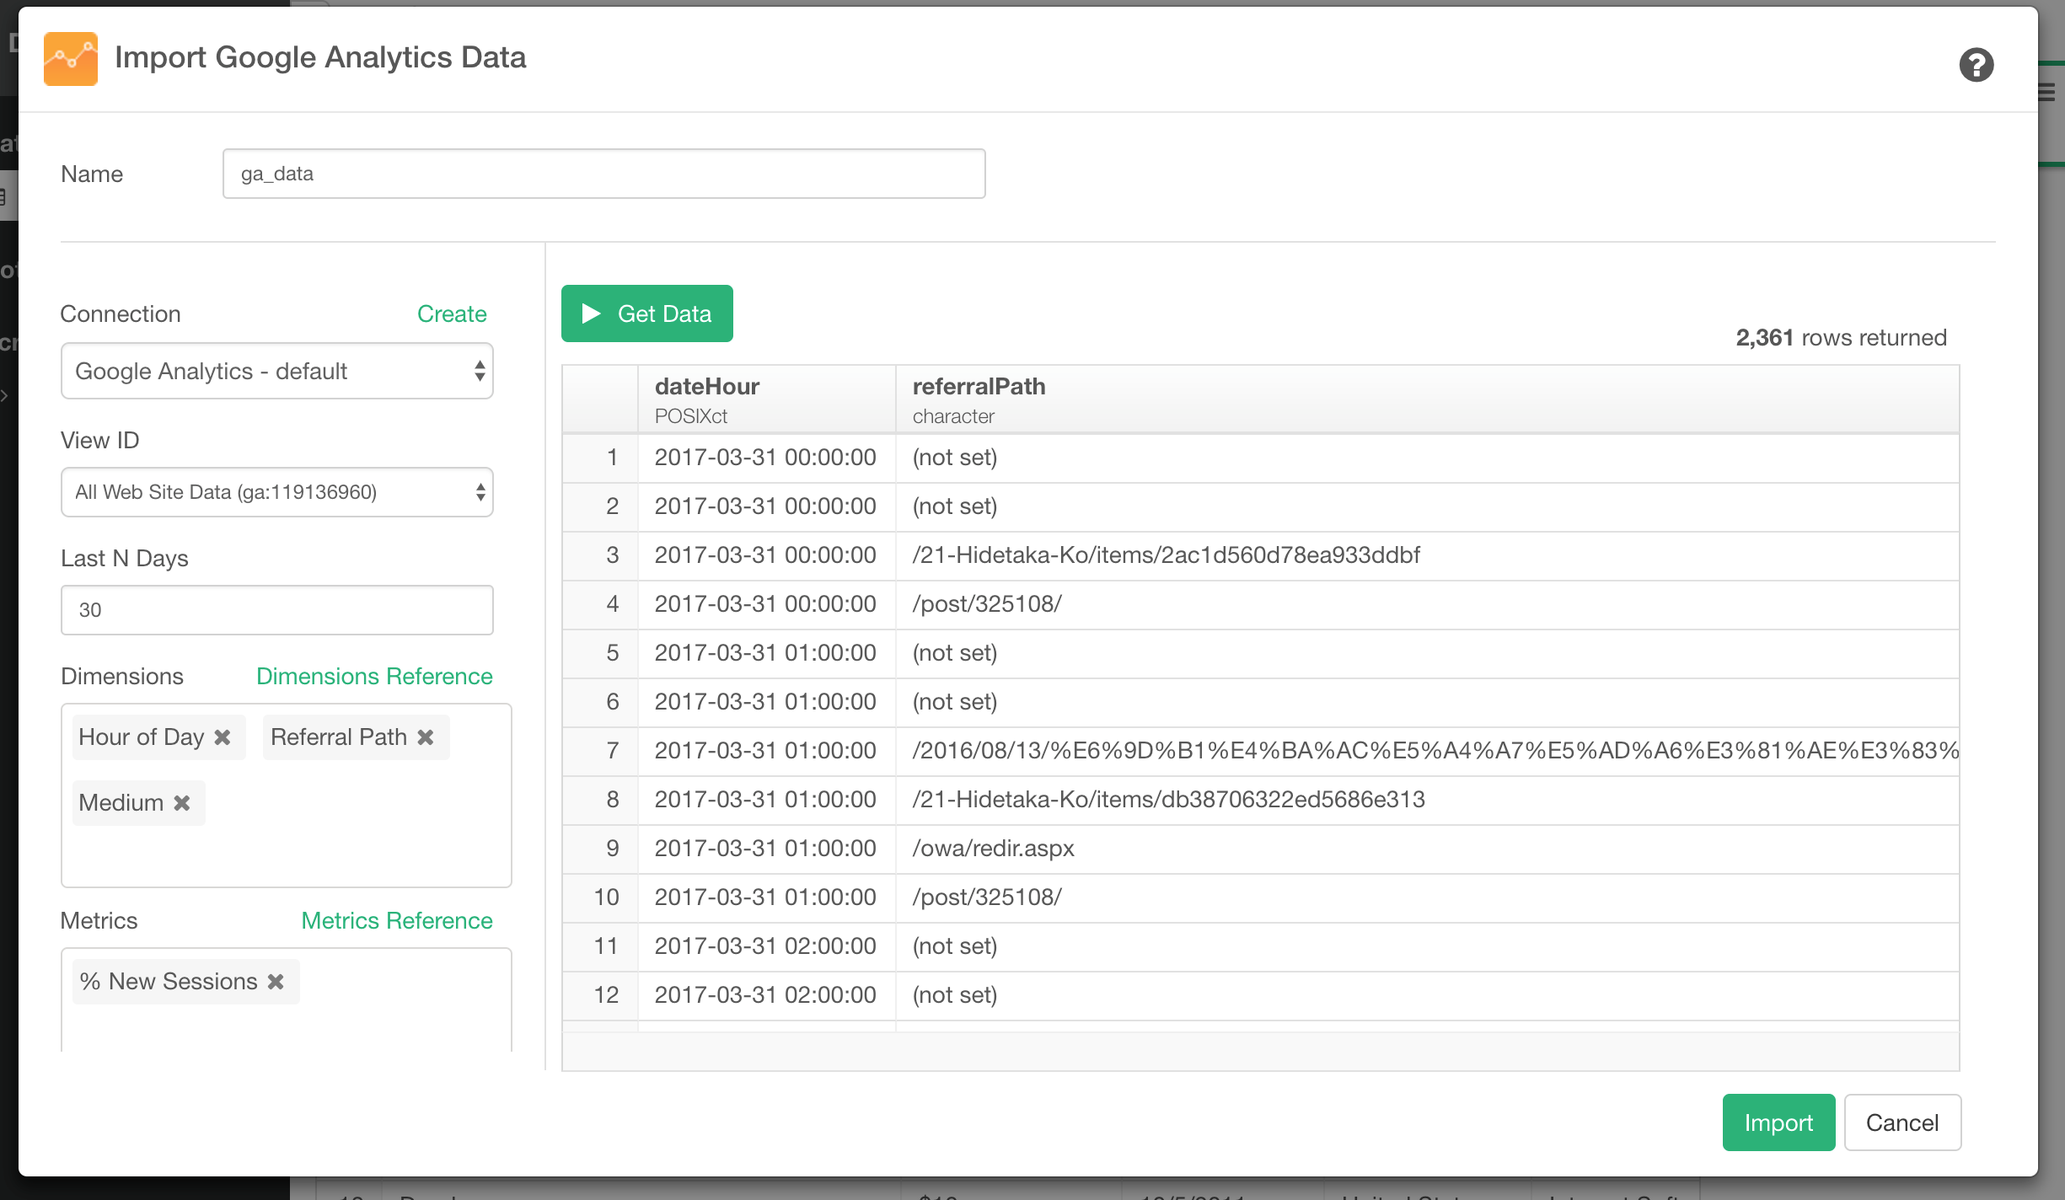
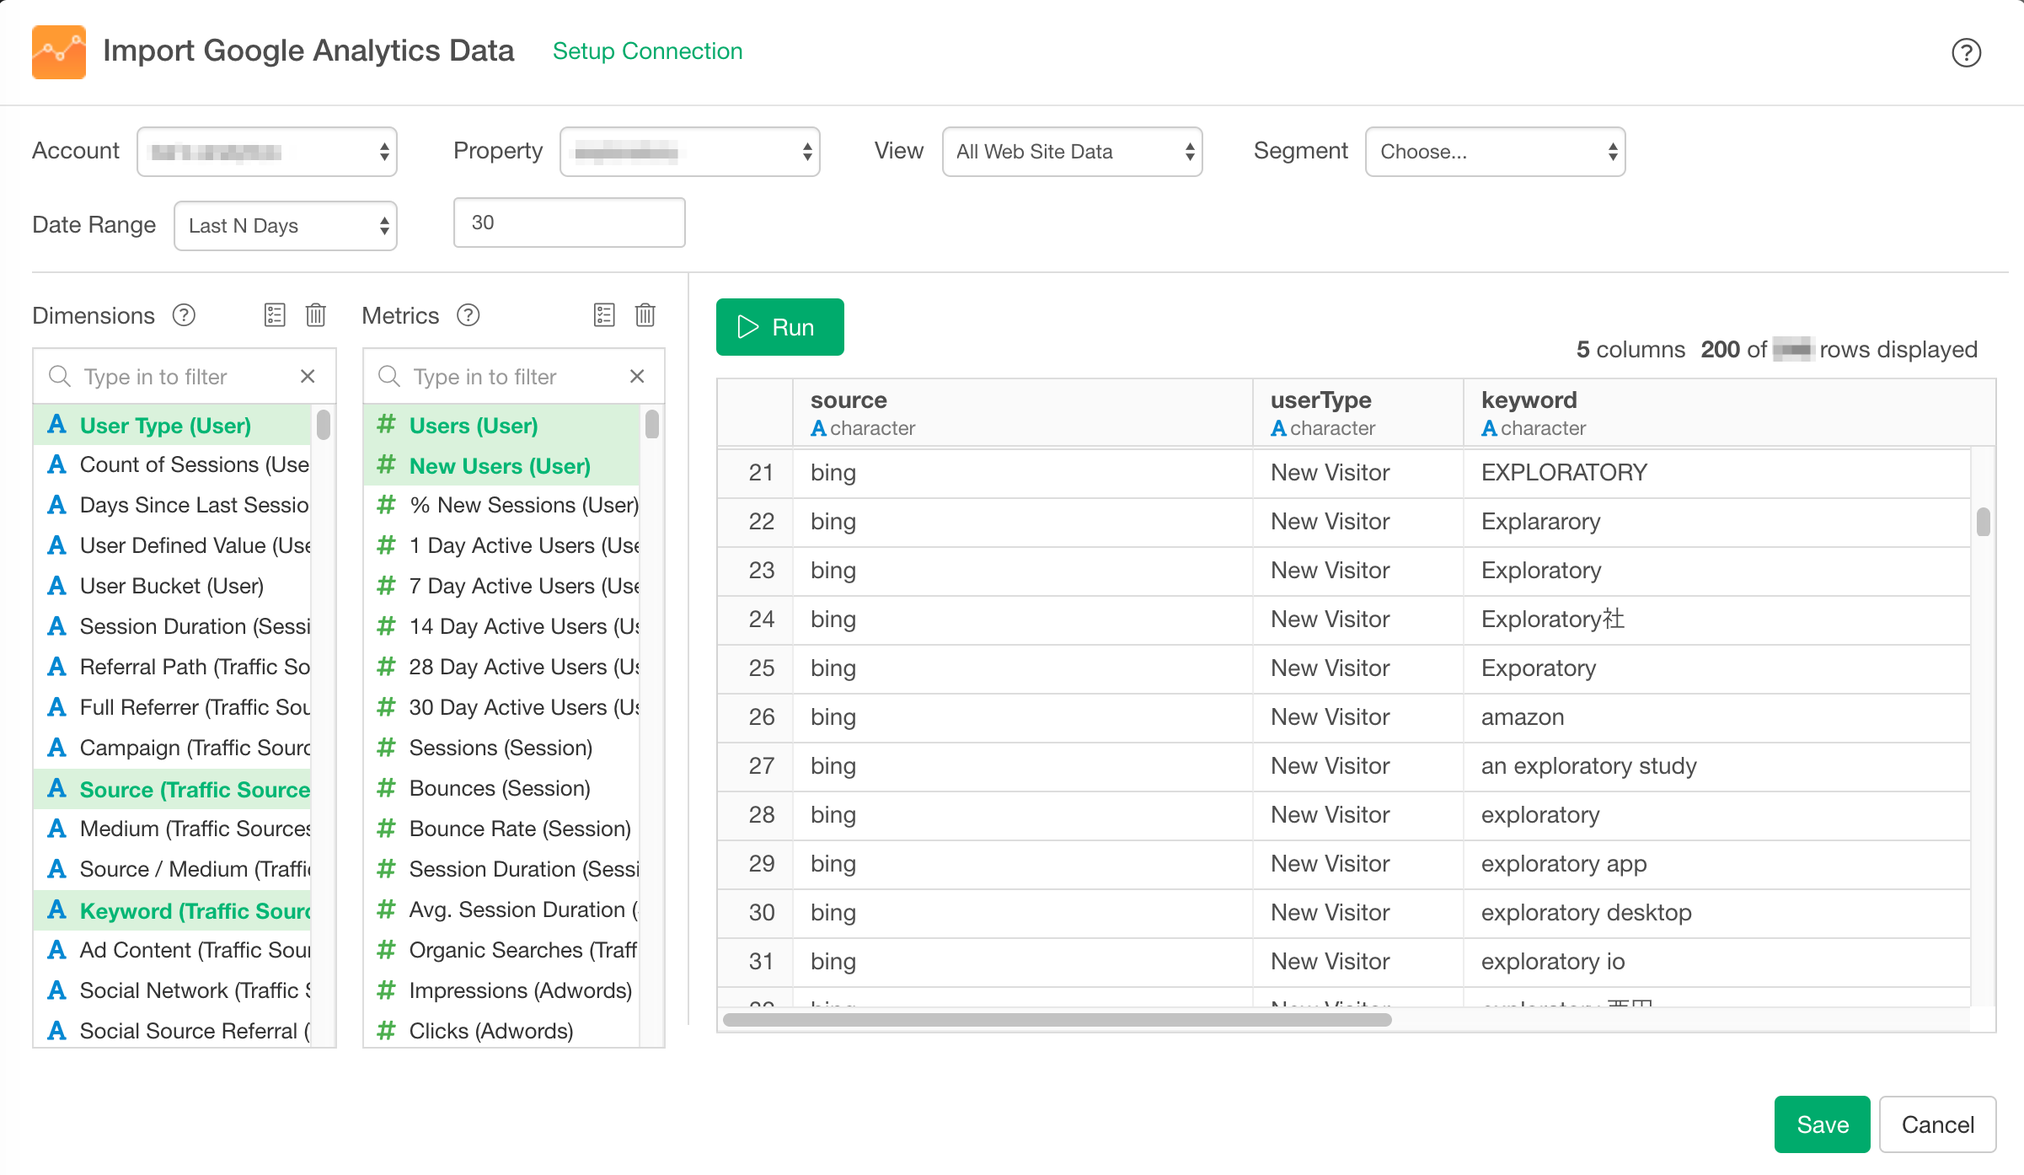
Updated Google Analytics with new screenshot.

diff --git a/import/google-analytics-ja.md b/import/google-analytics-ja.md
@@ -16,14 +16,22 @@ Google Analyticsをクリック
 
 ## 3. パラメタを設定
 
-- データフレーム名を入力。
-- ドロップダウンメニューからView IDを選択.
-- 過去N日。デフォルトは30日です。これは過去30日分のデータを抽出することを意味します。この値は必要に応じて更新できます。
-- ドロップダウンリストから、ディメンションと指標を選びます。
-- もし結果が10,000行(1回あたりのAPIの限度)以上になる場合は、ページネートクエリーをYesに設定します。
+- ドロップダウンメニューからアカウント、プロパティ、ビューを選択.
+- 日付範囲
+以下のオプションから選択します。
+  - 直近N日
+  - 直近N週間
+  - 直近Nヶ月
+  - 直近N年
+  - この日から
+  
+ 直近N日のデフォルトは30日です。これは過去30日分のデータを抽出することを意味します。この値は必要に応じて更新できます。もし「この日から」を選択した場合、日付を日付ピッカーから選べます。
+ 
+- リストから、ディメンションと指標を選びます。
+
 - セグメント: パラメタ詳細を参照
 
-![](images/google-analytics-setting.png)
+![](images/google-analytics-setting-ja.png)
 
 ## 4. プレビューとインポート
 
@@ -44,106 +52,12 @@ Google Analyticsをクリック
 セグメントはGoogle Analyticsのデータをフィルタして、必要なデータだけをサブセットとして取り出すのに便利です。たとえば、すべてのユーザーのうち、特定の国や都市のユーザーだけを取り出すことができます。
 
 #### 使い方
-セグメントを使用する際には、事前定義されているセグメントを、その`id`をパラメタに指定して使う方法と、動的にセグメントをパラメタに指定して使う方法の２種類あります。
 
-##### IDを指定して使う方法
+値リストからセグメントを選択します。
 
-例えば、iOSのデバイスからのアクセスだけにデータをフィルタしたい場合は、
-Segmentのパラメタに`gaid::-17`と指定するとiOSのデバイスからのアクセスだけにデータをフィルタできます。
+![](images/google-analytics-segments.png)
 
-![](images/segment-ios-example.png)
+リストの先頭にはGoogle Analyticsで登録したカスタムのセグメントが表示され、その次にシステムデフォルトのセグメントが表示されます。カスタムで定義したものについては、表示名の次に `(custom)`が付きます。
 
-Google Analyticsには上の例であげたiOSのデバイス(`gaid::-17`)の他にも、以下の事前定義のセグメントが用意されています。次の表は事前定義されているIDと、その説明です。
-
-|ID         | 説明                                    |
-|-----------|----------------------------------------|
-| gaid::-1  | 全てのユーザー　　　　　　　　　　|
-| gaid::-2  | 新規ユーザー                  |
-| gaid::-3  | 戻ってきたユーザー       |
-| gaid::-4  | ペイドトラッフィク          |
-| gaid::-5  | オーガニックトラフィック  |
-| gaid::-6  | 検索トラフィック          |
-| gaid::-7  | 直接のトラフィック        |
-| gaid::-8  | 参照トラフィック |
-| gaid::-9  | コンバージョンに至ったセッション |
-| gaid::-10 | 取引のあったセッション |
-| gaid::-11 | モバイルとタブレットのトラフィック           |
-| gaid::-12 | 直帰しなかったセッション                    |
-| gaid::-13 | タブレットのトラフィック                   |
-| gaid::-14 | モバイルのトラフィック                     |
-| gaid::-15 | タブレットとデスクトップのトラフィック        |
-| gaid::-16 | アンドロイドのトラフィック                  |
-| gaid::-17 | iOSのトラフィック           |
-| gaid::-18 | その他のトラフィック(iOSでもアンドロイドでもない)|
-| gaid::-19 | 直帰したセッション                       |
-| gaid::-100| シングルセッションユーザー                  |
-| gaid::-101| マルチセッションユーザー                   |
-| gaid::-102| コンバーター(Converters)              |
-| gaid::-103| ノンコンバーター (Non-Converters)                         |
-| gaid::-104| 購入に至った                        |
-| gaid::-105| サイトで検索を行った   |
-
-
-#### 動的なセグメント
-事前定義のセグメントでは要件を満たさない場合、動的にセグメントを定義してパラメタに渡すこともできます。
-
-##### 条件(conditions)
-
-例えば、「東京からSafariブラウザでアクセスしたセッション」に絞り込みたい場合は
-
-`sessions::condition::ga:region==Tokyo;ga:browser==Safari`
-
-というセグメントをパラメタに指定します。
-
-![](images/ga-custom-segment.png)
-
-
-セグメントはいくつかの構成要素からなります。まず`sessions::`の部分はセッションに対する絞り込みであることを意味します。もしユーザーに対する（複数のセッションをまたがる)絞り込みをする場合は、この代わりに`users::`を指定します。
-
-２つ目の`condition::`は条件を使ったセグメントであることを意味します。`condition::`以外には後述する`sequences::`を使うことができます。
-
-実際にデータを絞り込む条件が`ga:region==Tokyo;ga:browser==Safari`の部分になります。ここでは
-
-- アクセスしてきた地域が東京
-- 使用しているブラウザがSafari
-
-という２つの条件を両方満たすものになっています。
-
-まず一つ目の「アクセスしてきた地域が東京」というのは`ga:region==Tokyo`のように記述されます。`ga:region`はGoogle Analyticsの地域ディメンションで、`==Tokyo`はその値がTokyoであるという意味です。もし地域が東京ではないとしたければ、`!=Tokyo`と記述します。２つ目の`ga:browser==Safari`ですが、これはGoogle Analyticsのブラウザ・ディメンションがSafariという意味です。１つ目の条件と２つ目の条件の間にある`;`は `AND`を意味しており、この例に出てくる２つの条件を両方満たすことを意味してます。もし２つの条件のうち、どちらか一方だけ満たしていればよければ`;`の代わりに`,`を指定すると`OR`条件となります。
-
-##### 値を判断するオペレータ
-この例では値が等しいか`==`、等しくないか`!=`というオペレータを使いましたがこの他にも以下のオペレータを使うことができます。
-
-|オペレータ|説明|例|使用できるデータ属性
-|--|-----|---|--|--|
-|==|等しい|ga:region==Tokyo|ディメンション、指標|
-|!=|等しくない|ga:region!=Tokyo| ディメンション、指標|
-|< |より小さい|ga:hour<12|ディメンション、指標|
-|<= |より小さいか等しい|ga:hour<=12|ディメンション、指標|
-|> |より大きい|ga:pageview>100|ディメンション、指標|
-|>= |より大きいか等しい|ga:pageview>=100|ディメンション、指標|
-|<>|間 (範囲はminValue_maxValueのように指定)| ga:pageview<>1_200|ディメンション、指標|
-|[]|どれか (候補は&#124;で区切る、最大10候補まで)|ga:city[]Meguro&#124;Shibuya&#124;Ebisu |ディメンション|
-|=@|含む|ga:keyword=@exploratory|ディメンション|
-|!@|含まない|ga:keywaord!@AI|ディメンション|
-|=~|正規表現に適合|ga:keywaord=~machine|ディメンション|
-|!~|正規表現に適合しない|ga:keywaord!~machine|ディメンション|
-
-##### シーケンス(sequences)
-
-シーケンスは、ユーザー行動のステップ(順番)を、条件指定で絞り込むことのできるセグメントです。例えば、「最初にデスクトップでアクセスして、その後タブレット端末からアクセスしたユーザー」に絞り込みたい場合は、`users::sequence::ga:deviceCategory==desktop;->>ga:deviceCategory==tablet`のように記述します。先ほどの例とは異なり、セグメントの２番目が`sequence::`になっていることに注意してください。
-
-ここでは順番が２つあり、1つ目が`ga:deviceCategory==desktop`ということで、「最初にデスクトップでアクセスした」という条件を表していて、２つ目の`ga:deviceCategory==tablet`がその後タブレット端末でアクセスしたことを意味しています。そしてこの２つが`;->>`(その後)という演算子で繋がっているのがわかります。
-
-この順序の接続ルールには２つのタイプがあります。
-
-- その後のステップ (`;->>`)
-- 直後のステップ (`;->`)
-
-「次のステップ」の方が順番の接続判定がゆるく、上の例でいうとデスクトップでアクセスしたあとに、スマフォでアクセスして、その後タブレットでアクセスした場合も考慮されます。しかしながら、「直後のステップ」を選んだ場合は、間にスマフォでアクセスしたケースは絞り込んだ際に外されます。
-
-ちなみに、各ステップでは複数の条件を持つことができます。例えば、「初めにデスクトップでOSがWindowsでアクセスして、次にモバイル端末でOSがアンドロイドのものからアクセスした」というセグメントは以下のように記述できます。
-
-`users::sequence::ga:deviceCategory==desktop;ga:operatingSystem==Windows;->>ga:deviceCategory==mobile;ga:operatingSystem==Android`
 
 セグメントの詳細については[セグメントについて(日本語)](https://support.google.com/analytics/answer/3123951?hl=ja)や[Core Reporting API - Segments(英語)](https://developers.google.com/analytics/devguides/reporting/core/v3/segments)を参照してください。

diff --git a/import/google-analytics.md b/import/google-analytics.md
@@ -16,12 +16,19 @@ Create a connection following [this instruction](https://blog.exploratory.io/how
 
 ## 3. Set Parameters
 
-- Type a data frame name.
-- Select View ID from the dropdown menu.
-- Set Last N days. The default is set to 30, which means it will extract the last 30 days. You can update this based on your needs.
-- Select Dimensions and Metrics from the dropdown menu.
-- Set Paginate Query to Yes if the result is supposed to have more than 10000 rows (max for one api access).
-- Segments: please refer Parameter details.
+- Select Account, Property, and View from the dropdown menu.
+- Set Date Range. You can select either of the followings:
+
+  - Last N days
+  - Last N Weeks
+  - Last N Months
+  - Last N Years
+  - From this Date
+  
+Last N days. The default is set to 30, which means it will extract the last 30 days. You can update this based on your needs. If you select "From this Date", you can select a day from Date Picker.
+
+- Select Dimensions and Metrics from the List.
+- Segments: You can select both Custom segments as well as predefined segments from list of values.
 
 ![](images/google-analytics-setting.png)
 
@@ -44,99 +51,11 @@ You might want to take a look at [Query Parameter reference page](https://develo
 Segments are useful when you want to filter Google Analytics data and extract meaningful data by sub-setting it. For example, out of all users, you can extract only users who access from specific country and city.
 
 #### How to use Segments
-There are two ways to use Segments. The first option is select `id` of the predefined Segments. And the second option is define a segment dynamically and pass it to the Segments parameter.
 
-#### Use segment by specifying ID
-For example, if you want to see users who access your site with iOS device, you can pass `gaid::-17` to the Segments parameter like below.
+You can select a segment from list of values.
 
-![](images/segment-ios-example-en.png)
+![](images/google-analytics-segments.png)
 
-Other than the iOS device (`gaid::-17`), there are following predefined segments available for your analysis. Below table shows the list of predefined segments.
-
-|ID         | description                        |
-|-----------|----------------------------------------|
-| gaid::-1  | All Users　　　　　　　　　　|
-| gaid::-2  | New Users                  |
-| gaid::-3  | Returning Users       |
-| gaid::-4  | Paid Traffic          |
-| gaid::-5  | Organic Traffic  |
-| gaid::-6  | Search Traffic          |
-| gaid::-7  | Direct Traffic        |
-| gaid::-8  | Referral Traffic |
-| gaid::-9  | Sessions with Conversions |
-| gaid::-10 | Sessions with Transactions |
-| gaid::-11 | Mobile and Tablet Traffic           |
-| gaid::-12 | Non-bounce Sessions                    |
-| gaid::-13 | Tablet Traffic                   |
-| gaid::-14 | Mobile Traffic                     |
-| gaid::-15 | Tablet and Desktop Traffic        |
-| gaid::-16 | Android Traffic                  |
-| gaid::-17 | iOS Traffic           |
-| gaid::-18 | Other Traffic (Neither iOS nor Android)|
-| gaid::-19 | Bounced Session                       |
-| gaid::-100| Single Session Users                  |
-| gaid::-101| Multi-session Users                   |
-| gaid::-102| Converters              |
-| gaid::-103| Non-Converters                         |
-| gaid::-104| Made a Purchase                        |
-| gaid::-105| Performed Site Search  |
-
-#### Dynamic Segments
-If you want to perform more complex filter than predefined segments, you can dynamically define segment and pass that to the Segments parameter.
-
-##### Conditions
-For example, if you want to filter the data to "Session coming from Tokyo with Safari browser", you can define following segment.
-
-`sessions::condition::ga:region==Tokyo;ga:browser==Safari`
-
-and pass that to Segments parameter.
-
-![](images/ga-custom-segment-en.png)
-
-A Segment consists of couple of elements. The `sessions::` part means the segment is applied to sessions. if you want to apply the segment to users (it could cross multiple sessions), you need to specifiy `users::` instead.
-
-The second element `condition::` means it uses condition to filter data. Other than `condition::`, you can use `sequence::`, which will be explained in the next section.
-
-And the next element `ga:region==Tokyo;ga:browser==Safari` is the place where filtering condition details are defined. In this example, it consists of following two conditions:
-
-- Accessing region is Tokyo
-- Browser is Safari
-
-As for the first condition, it is defined as `ga:region==Tokyo`. The `ga:region` is the Region dimension of Google Analytics and `==Tokyo` means the value is Tokyo. If you want to see the data whose accessing region is NOT Tokyo, you can change the condition as `!=Tokyo` instead of `==Tokyo`. As for the second condition `ga:browser==Safari`,  The `ga:browser` is the Browser dimesion of Google Analytics and `==Safari` means the value is Safari. The character `;` which sits between first and second conditions means `AND`, so the resulting data meets both these two conditions. If you want to change this to OR (which means at least one of the conditions is met), you can set `,` instead of `;`.
-
-##### Filter Operators
-In this example, it uses `==`, which means `Equal`, and `!=`, which means `Not Equal`, but there are many more operators available for filtering.
-
-|Operator|Description|Example|Supported Data Attributes
-|--|-----|---|--|--|
-|==|Equal to or exact match.|ga:region==Tokyo|Dimension、Metric|
-|!=|Not equal to or is not an exact match.|ga:region!=Tokyo| Dimension, Metric|
-|< |Less than|ga:hour<12| Dimension, Metric|
-|<= |Less than or equal to.|ga:hour<=12| Dimension, Metric|
-|> |Greater than.|ga:pageview>100| Dimension, Metric|
-|>= |Greater than or equal to.|ga:pageview>=100| Dimension, Metric|
-|<>| Between (Range is defined as minValue_maxValue fashion)| ga:pageview<>1_200| Dimension, Metric|
-|[]|In list (value is one of the listed values. Value is separated by &#124; up to 10 values per list)|ga:city[]Meguro&#124;Shibuya&#124;Ebisu | Dimension|
-|=@|Contains substring|ga:keyword=@exploratory| Dimension|
-|!@|Does not contain substring.|ga:keywaord!@AI| Dimension|
-|=~| Contains a match for regular expression. |ga:keywaord=~machine| Dimension |
-|!~| Does not contain a match for regular expression.|ga:keywaord!~machine| Dimension |
-
-
-##### Sequences
-Sequences are useful when you want to filter data by sequence of user actions(steps). For example, if you want to filter data to users who "Access with Desktop at first, followed by access from Tablet", you can define a segment like this.`users::sequence::ga:deviceCategory==desktop;->>ga:deviceCategory==tablet`. Unlike the previous example, now you can see the second element is`sequence::`.
-
-With this example, there are two sequences. The first one is `ga:deviceCategory==desktop` which means "At first, access was made with Desktop". And the second one is `ga:deviceCategory==tablet` which means access was made with tablet. These two sequences are connected with `;->>` operator which means `followed by`.
-
-So there are two types of connection rules:
-
-- Followed by (`;->>`)
-- Immediately followed by (`;->`)
-
-`Followed by` is less strict operator, so with above example, it considers the case where first access was made with Desktop, then next access was made with phone and lastly accessed with tablet. However, if you select `Immediate followed by`, this case is filtered out since the tablet access should happen "immediately" after desktop access.
-
-By the way, each step can have multiple conditions. For example, "First access was made with Desktop whose OS is Windows and access was made with Mobile device whose OS is Android" can be translated into following segment:
-
-`users::sequence::ga:deviceCategory==desktop;ga:operatingSystem==Windows;->>ga:deviceCategory==mobile;ga:operatingSystem==Android`
+The list shows your custom segments first the system defined ones next. For your custom segment, it shows `(custom)` at the end.
 
 For segments details, please refer[About Segments](https://support.google.com/analytics/answer/3123951) and [Core Reporting API - Segments](https://developers.google.com/analytics/devguides/reporting/core/v3/segments)
